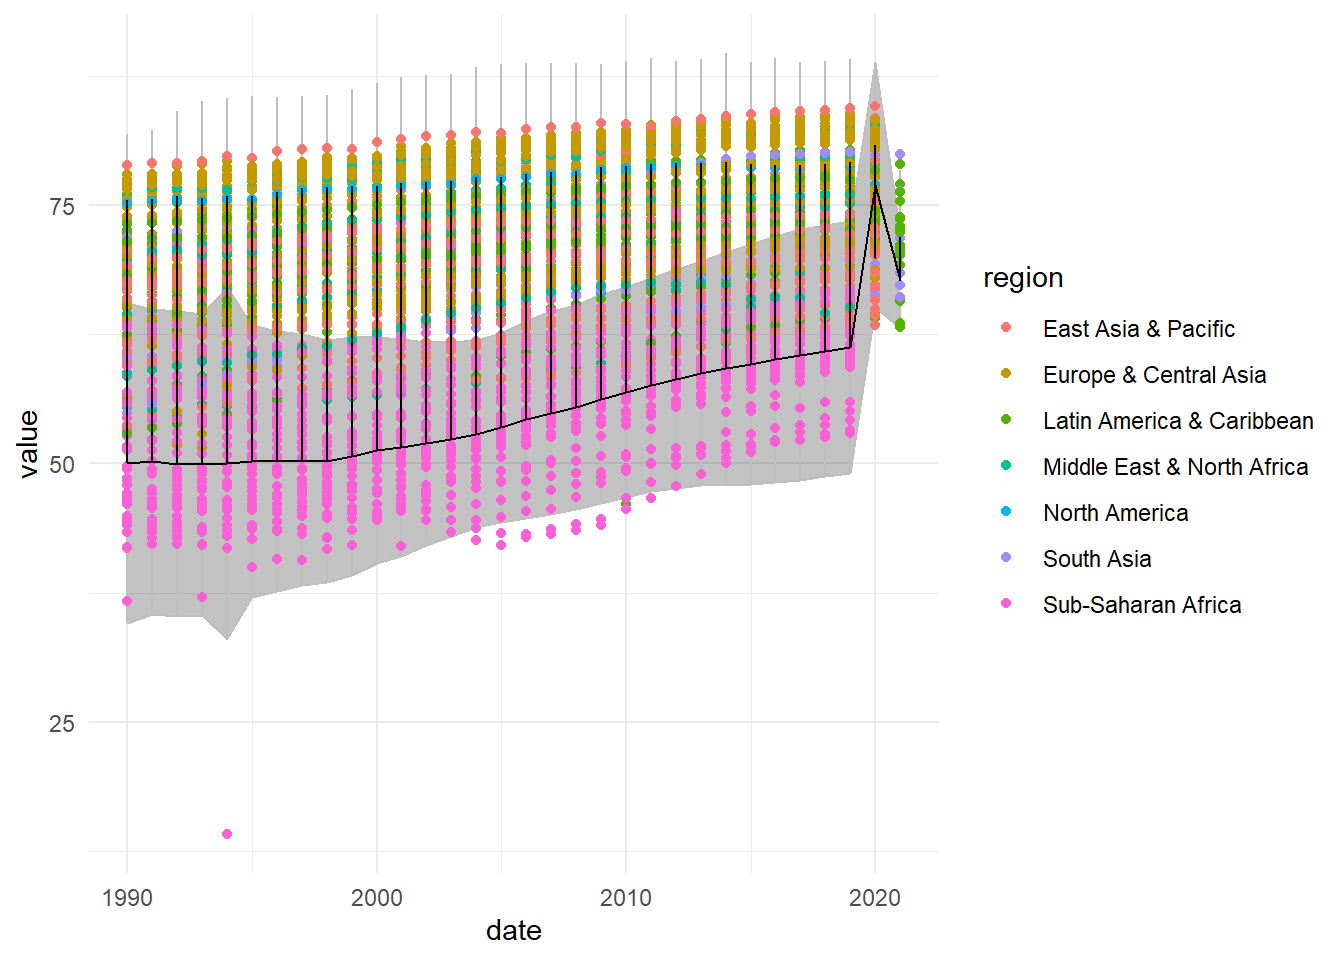
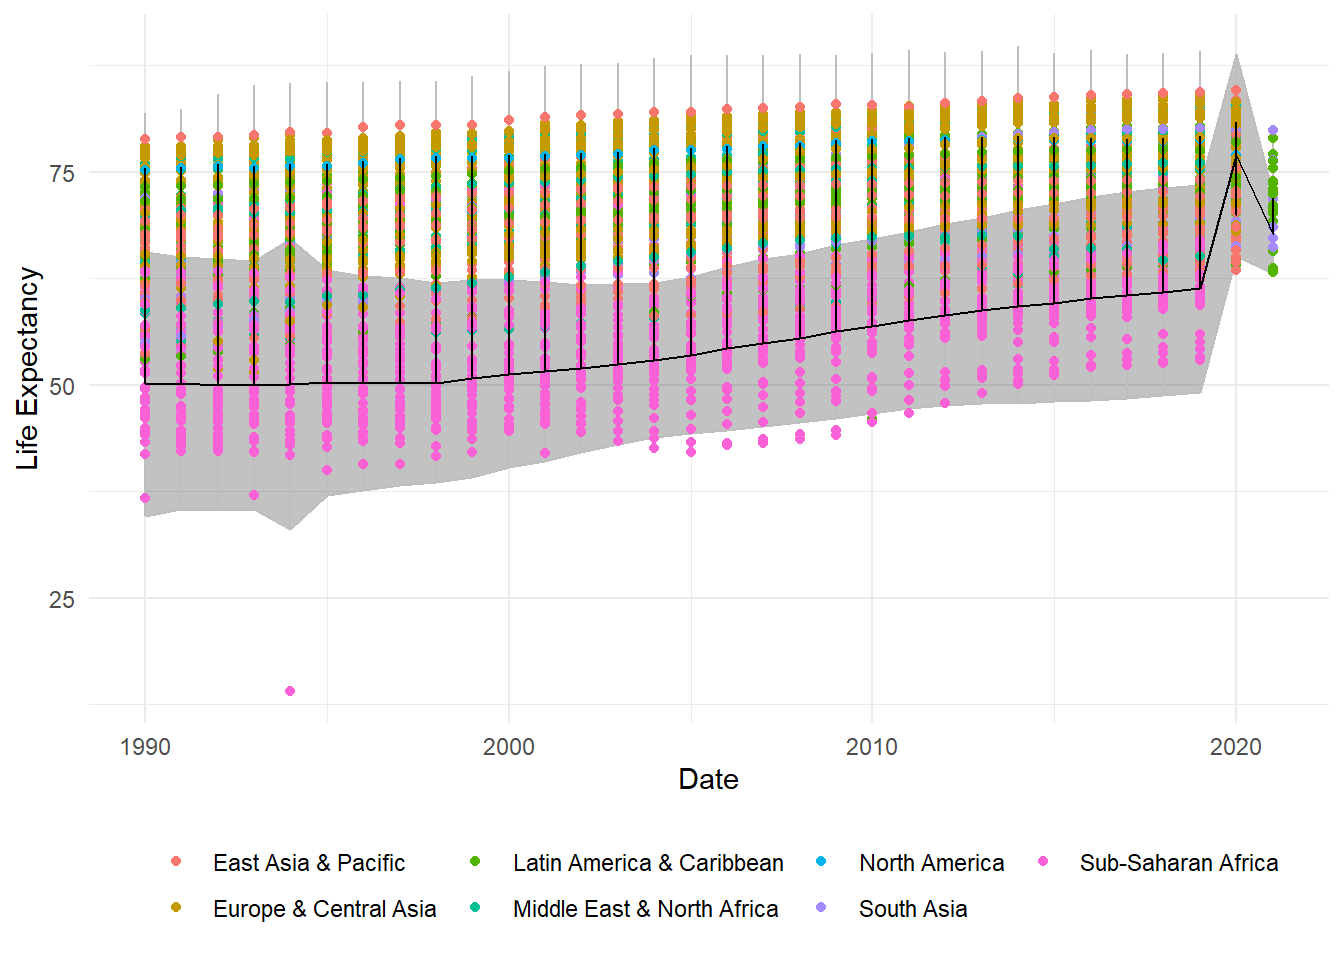
Minor Light of Day Tidying Up Changes

diff --git a/index.html b/index.html
@@ -526,7 +526,7 @@ code span.wa { color: #60a0b0; font-weight: bold; font-style: italic; } /* Warni
 <span id="cb11-11"><a href="#cb11-11" aria-hidden="true" tabindex="-1"></a>         <span class="at">upper=</span>mean<span class="fl">+2.5</span><span class="sc">*</span>(sd),</span>
 <span id="cb11-12"><a href="#cb11-12" aria-hidden="true" tabindex="-1"></a>         <span class="at">lower=</span>mean<span class="fl">-2.5</span><span class="sc">*</span>(sd),</span>
 <span id="cb11-13"><a href="#cb11-13" aria-hidden="true" tabindex="-1"></a>         <span class="at">outlier=</span><span class="fu">ifelse</span>(value<span class="sc">&lt;=</span>upper,</span>
-<span id="cb11-14"><a href="#cb11-14" aria-hidden="true" tabindex="-1"></a>                (<span class="fu">ifelse</span>(indicator<span class="sc">&lt;=</span>lower,<span class="st">"outlier"</span>,<span class="st">"inlier"</span>)),<span class="st">"outlier"</span>))</span>
+<span id="cb11-14"><a href="#cb11-14" aria-hidden="true" tabindex="-1"></a>                (<span class="fu">ifelse</span>(value<span class="sc">&lt;=</span>lower,<span class="st">"outlier"</span>,<span class="st">"inlier"</span>)),<span class="st">"outlier"</span>))</span>
 <span id="cb11-15"><a href="#cb11-15" aria-hidden="true" tabindex="-1"></a>outliers</span>
 <span id="cb11-16"><a href="#cb11-16" aria-hidden="true" tabindex="-1"></a></span>
 <span id="cb11-17"><a href="#cb11-17" aria-hidden="true" tabindex="-1"></a>}</span></code><button title="Copy to Clipboard" class="code-copy-button"><i class="bi"></i></button></pre></div>
@@ -709,7 +709,11 @@ code span.wa { color: #60a0b0; font-weight: bold; font-style: italic; } /* Warni
 <span id="cb13-9"><a href="#cb13-9" aria-hidden="true" tabindex="-1"></a>              <span class="at">colour=</span><span class="st">"grey"</span>, <span class="at">alpha=</span><span class="fl">0.3</span>)<span class="sc">+</span></span>
 <span id="cb13-10"><a href="#cb13-10" aria-hidden="true" tabindex="-1"></a>  <span class="fu">geom_point</span>(<span class="fu">aes</span>(<span class="at">x=</span>date,<span class="at">y=</span>value,<span class="at">color=</span>region))<span class="sc">+</span></span>
 <span id="cb13-11"><a href="#cb13-11" aria-hidden="true" tabindex="-1"></a>  <span class="fu">geom_line</span>(<span class="fu">aes</span>(<span class="at">x=</span>date, <span class="at">y=</span>mean))<span class="sc">+</span></span>
-<span id="cb13-12"><a href="#cb13-12" aria-hidden="true" tabindex="-1"></a>  <span class="fu">theme_minimal</span>()</span></code><button title="Copy to Clipboard" class="code-copy-button"><i class="bi"></i></button></pre></div>
+<span id="cb13-12"><a href="#cb13-12" aria-hidden="true" tabindex="-1"></a>  <span class="fu">labs</span>(<span class="at">x=</span><span class="st">"Date"</span>,</span>
+<span id="cb13-13"><a href="#cb13-13" aria-hidden="true" tabindex="-1"></a>       <span class="at">y=</span><span class="st">"Life Expectancy"</span>)<span class="sc">+</span></span>
+<span id="cb13-14"><a href="#cb13-14" aria-hidden="true" tabindex="-1"></a>  <span class="fu">theme_minimal</span>()<span class="sc">+</span></span>
+<span id="cb13-15"><a href="#cb13-15" aria-hidden="true" tabindex="-1"></a>  <span class="fu">theme</span>(<span class="at">legend.position=</span><span class="st">"bottom"</span>, </span>
+<span id="cb13-16"><a href="#cb13-16" aria-hidden="true" tabindex="-1"></a>        <span class="at">legend.title=</span><span class="fu">element_blank</span>())</span></code><button title="Copy to Clipboard" class="code-copy-button"><i class="bi"></i></button></pre></div>
 <div class="cell-output-display">
 <div class="quarto-figure quarto-figure-left">
 <figure class="figure">
@@ -1017,8 +1021,8 @@ code span.wa { color: #60a0b0; font-weight: bold; font-style: italic; } /* Warni
 <span id="cb20-4"><a href="#cb20-4" aria-hidden="true" tabindex="-1"></a>                <span class="at">y =</span> cum_income, </span>
 <span id="cb20-5"><a href="#cb20-5" aria-hidden="true" tabindex="-1"></a>                <span class="at">group =</span> year, </span>
 <span id="cb20-6"><a href="#cb20-6" aria-hidden="true" tabindex="-1"></a>                <span class="at">color =</span> <span class="fu">as.factor</span>(year))) <span class="sc">+</span></span>
-<span id="cb20-7"><a href="#cb20-7" aria-hidden="true" tabindex="-1"></a>  <span class="fu">labs</span>(<span class="at">x=</span><span class="st">"Cumulative Welfare"</span>,</span>
-<span id="cb20-8"><a href="#cb20-8" aria-hidden="true" tabindex="-1"></a>       <span class="at">y=</span><span class="st">"Cumulative Population"</span>)<span class="sc">+</span></span>
+<span id="cb20-7"><a href="#cb20-7" aria-hidden="true" tabindex="-1"></a>  <span class="fu">labs</span>(<span class="at">x=</span><span class="st">"Cumulative Population"</span>,</span>
+<span id="cb20-8"><a href="#cb20-8" aria-hidden="true" tabindex="-1"></a>       <span class="at">y=</span><span class="st">"Cumulative Welfare"</span>)<span class="sc">+</span></span>
 <span id="cb20-9"><a href="#cb20-9" aria-hidden="true" tabindex="-1"></a>  <span class="fu">theme_minimal</span>()<span class="sc">+</span></span>
 <span id="cb20-10"><a href="#cb20-10" aria-hidden="true" tabindex="-1"></a>  <span class="fu">theme</span>(<span class="at">legend.position=</span><span class="fu">c</span>(<span class="fl">0.10</span>,<span class="fl">0.60</span>), </span>
 <span id="cb20-11"><a href="#cb20-11" aria-hidden="true" tabindex="-1"></a>        <span class="at">legend.title=</span><span class="fu">element_blank</span>())</span></code><button title="Copy to Clipboard" class="code-copy-button"><i class="bi"></i></button></pre></div>
@@ -1080,84 +1084,84 @@ code span.wa { color: #60a0b0; font-weight: bold; font-style: italic; } /* Warni
  </thead>
 <tbody>
   <tr>
-   <td style="text-align:right;"> 2008 </td>
-   <td style="text-align:right;"> 1.61063 </td>
-   <td style="text-align:right;"> 2 </td>
+   <td style="text-align:right;"> 2007 </td>
+   <td style="text-align:right;"> 0.93444 </td>
+   <td style="text-align:right;"> 1 </td>
+   <td style="text-align:left;"> urban </td>
+   <td style="text-align:right;"> 0.00000 </td>
+   <td style="text-align:right;"> 0.00003 </td>
+  </tr>
+  <tr>
+   <td style="text-align:right;"> 2007 </td>
+   <td style="text-align:right;"> 0.96713 </td>
+   <td style="text-align:right;"> 1 </td>
    <td style="text-align:left;"> urban </td>
    <td style="text-align:right;"> 0.00001 </td>
    <td style="text-align:right;"> 0.00006 </td>
   </tr>
   <tr>
-   <td style="text-align:right;"> 2006 </td>
-   <td style="text-align:right;"> 0.41736 </td>
-   <td style="text-align:right;"> 3 </td>
-   <td style="text-align:left;"> urban </td>
-   <td style="text-align:right;"> 0.00001 </td>
-   <td style="text-align:right;"> 0.00009 </td>
-  </tr>
-  <tr>
    <td style="text-align:right;"> 2010 </td>
-   <td style="text-align:right;"> 2.80882 </td>
-   <td style="text-align:right;"> 4 </td>
-   <td style="text-align:left;"> urban </td>
-   <td style="text-align:right;"> 0.00004 </td>
-   <td style="text-align:right;"> 0.00012 </td>
-  </tr>
-  <tr>
-   <td style="text-align:right;"> 2007 </td>
-   <td style="text-align:right;"> 1.02653 </td>
-   <td style="text-align:right;"> 4 </td>
-   <td style="text-align:left;"> urban </td>
-   <td style="text-align:right;"> 0.00002 </td>
-   <td style="text-align:right;"> 0.00012 </td>
-  </tr>
-  <tr>
-   <td style="text-align:right;"> 2008 </td>
-   <td style="text-align:right;"> 1.61259 </td>
+   <td style="text-align:right;"> 2.80438 </td>
    <td style="text-align:right;"> 3 </td>
    <td style="text-align:left;"> urban </td>
    <td style="text-align:right;"> 0.00003 </td>
-   <td style="text-align:right;"> 0.00014 </td>
-  </tr>
-  <tr>
-   <td style="text-align:right;"> 2009 </td>
-   <td style="text-align:right;"> 2.27740 </td>
-   <td style="text-align:right;"> 6 </td>
-   <td style="text-align:left;"> rural </td>
-   <td style="text-align:right;"> 0.00006 </td>
-   <td style="text-align:right;"> 0.00017 </td>
-  </tr>
-  <tr>
-   <td style="text-align:right;"> 2007 </td>
-   <td style="text-align:right;"> 1.03780 </td>
-   <td style="text-align:right;"> 5 </td>
-   <td style="text-align:left;"> urban </td>
-   <td style="text-align:right;"> 0.00005 </td>
-   <td style="text-align:right;"> 0.00028 </td>
-  </tr>
-  <tr>
-   <td style="text-align:right;"> 2010 </td>
-   <td style="text-align:right;"> 2.85150 </td>
-   <td style="text-align:right;"> 8 </td>
-   <td style="text-align:left;"> urban </td>
-   <td style="text-align:right;"> 0.00012 </td>
-   <td style="text-align:right;"> 0.00035 </td>
-  </tr>
-  <tr>
-   <td style="text-align:right;"> 2009 </td>
-   <td style="text-align:right;"> 2.29151 </td>
-   <td style="text-align:right;"> 8 </td>
-   <td style="text-align:left;"> rural </td>
-   <td style="text-align:right;"> 0.00014 </td>
-   <td style="text-align:right;"> 0.00040 </td>
+   <td style="text-align:right;"> 0.00008 </td>
   </tr>
   <tr>
    <td style="text-align:right;"> 2008 </td>
-   <td style="text-align:right;"> 1.68623 </td>
-   <td style="text-align:right;"> 9 </td>
+   <td style="text-align:right;"> 1.63671 </td>
+   <td style="text-align:right;"> 4 </td>
    <td style="text-align:left;"> urban </td>
-   <td style="text-align:right;"> 0.00008 </td>
-   <td style="text-align:right;"> 0.00040 </td>
+   <td style="text-align:right;"> 0.00003 </td>
+   <td style="text-align:right;"> 0.00012 </td>
+  </tr>
+  <tr>
+   <td style="text-align:right;"> 2006 </td>
+   <td style="text-align:right;"> 0.44210 </td>
+   <td style="text-align:right;"> 5 </td>
+   <td style="text-align:left;"> urban </td>
+   <td style="text-align:right;"> 0.00001 </td>
+   <td style="text-align:right;"> 0.00014 </td>
+  </tr>
+  <tr>
+   <td style="text-align:right;"> 2009 </td>
+   <td style="text-align:right;"> 2.26249 </td>
+   <td style="text-align:right;"> 5 </td>
+   <td style="text-align:left;"> urban </td>
+   <td style="text-align:right;"> 0.00006 </td>
+   <td style="text-align:right;"> 0.00015 </td>
+  </tr>
+  <tr>
+   <td style="text-align:right;"> 2007 </td>
+   <td style="text-align:right;"> 1.02552 </td>
+   <td style="text-align:right;"> 4 </td>
+   <td style="text-align:left;"> urban </td>
+   <td style="text-align:right;"> 0.00003 </td>
+   <td style="text-align:right;"> 0.00018 </td>
+  </tr>
+  <tr>
+   <td style="text-align:right;"> 2006 </td>
+   <td style="text-align:right;"> 0.44692 </td>
+   <td style="text-align:right;"> 5 </td>
+   <td style="text-align:left;"> urban </td>
+   <td style="text-align:right;"> 0.00003 </td>
+   <td style="text-align:right;"> 0.00029 </td>
+  </tr>
+  <tr>
+   <td style="text-align:right;"> 2009 </td>
+   <td style="text-align:right;"> 2.26404 </td>
+   <td style="text-align:right;"> 5 </td>
+   <td style="text-align:left;"> urban </td>
+   <td style="text-align:right;"> 0.00012 </td>
+   <td style="text-align:right;"> 0.00030 </td>
+  </tr>
+  <tr>
+   <td style="text-align:right;"> 2007 </td>
+   <td style="text-align:right;"> 1.04178 </td>
+   <td style="text-align:right;"> 5 </td>
+   <td style="text-align:left;"> rural </td>
+   <td style="text-align:right;"> 0.00005 </td>
+   <td style="text-align:right;"> 0.00033 </td>
   </tr>
 </tbody>
 </table>
@@ -1174,9 +1178,11 @@ code span.wa { color: #60a0b0; font-weight: bold; font-style: italic; } /* Warni
 <span id="cb23-4"><a href="#cb23-4" aria-hidden="true" tabindex="-1"></a>                <span class="at">y =</span> cum_income, </span>
 <span id="cb23-5"><a href="#cb23-5" aria-hidden="true" tabindex="-1"></a>                <span class="at">group =</span> year, </span>
 <span id="cb23-6"><a href="#cb23-6" aria-hidden="true" tabindex="-1"></a>                <span class="at">color =</span> <span class="fu">as.factor</span>(year))) <span class="sc">+</span></span>
-<span id="cb23-7"><a href="#cb23-7" aria-hidden="true" tabindex="-1"></a>  <span class="fu">theme_minimal</span>()<span class="sc">+</span></span>
-<span id="cb23-8"><a href="#cb23-8" aria-hidden="true" tabindex="-1"></a>  <span class="fu">theme</span>(<span class="at">legend.position=</span><span class="fu">c</span>(<span class="fl">0.10</span>,<span class="fl">0.60</span>), </span>
-<span id="cb23-9"><a href="#cb23-9" aria-hidden="true" tabindex="-1"></a>        <span class="at">legend.title=</span><span class="fu">element_blank</span>())</span></code><button title="Copy to Clipboard" class="code-copy-button"><i class="bi"></i></button></pre></div>
+<span id="cb23-7"><a href="#cb23-7" aria-hidden="true" tabindex="-1"></a>  <span class="fu">labs</span>(<span class="at">x=</span><span class="st">"Cumulative Population"</span>,</span>
+<span id="cb23-8"><a href="#cb23-8" aria-hidden="true" tabindex="-1"></a>       <span class="at">y=</span><span class="st">"Cumulative Welfare"</span>)<span class="sc">+</span></span>
+<span id="cb23-9"><a href="#cb23-9" aria-hidden="true" tabindex="-1"></a>  <span class="fu">theme_minimal</span>()<span class="sc">+</span></span>
+<span id="cb23-10"><a href="#cb23-10" aria-hidden="true" tabindex="-1"></a>  <span class="fu">theme</span>(<span class="at">legend.position=</span><span class="fu">c</span>(<span class="fl">0.10</span>,<span class="fl">0.60</span>), </span>
+<span id="cb23-11"><a href="#cb23-11" aria-hidden="true" tabindex="-1"></a>        <span class="at">legend.title=</span><span class="fu">element_blank</span>())</span></code><button title="Copy to Clipboard" class="code-copy-button"><i class="bi"></i></button></pre></div>
 <div class="cell-output-display">
 <div class="quarto-figure quarto-figure-left">
 <figure class="figure">
@@ -1270,10 +1276,13 @@ code span.wa { color: #60a0b0; font-weight: bold; font-style: italic; } /* Warni
 <h3 class="anchored" data-anchor-id="graphing-results-3">Graphing Results</h3>
 <div class="cell" data-layout-align="left">
 <div class="sourceCode cell-code" id="cb26"><pre class="sourceCode r code-with-copy"><code class="sourceCode r"><span id="cb26-1"><a href="#cb26-1" aria-hidden="true" tabindex="-1"></a><span class="fu">gini</span>() <span class="sc">%&gt;%</span> </span>
-<span id="cb26-2"><a href="#cb26-2" aria-hidden="true" tabindex="-1"></a>  <span class="fu">ggplot</span>(<span class="fu">aes</span>(<span class="at">x=</span>year,<span class="at">y=</span>gini))<span class="sc">+</span></span>
-<span id="cb26-3"><a href="#cb26-3" aria-hidden="true" tabindex="-1"></a>  <span class="fu">geom_line</span>()<span class="sc">+</span></span>
-<span id="cb26-4"><a href="#cb26-4" aria-hidden="true" tabindex="-1"></a>  <span class="fu">geom_point</span>()<span class="sc">+</span></span>
-<span id="cb26-5"><a href="#cb26-5" aria-hidden="true" tabindex="-1"></a>  <span class="fu">theme_minimal</span>()</span></code><button title="Copy to Clipboard" class="code-copy-button"><i class="bi"></i></button></pre></div>
+<span id="cb26-2"><a href="#cb26-2" aria-hidden="true" tabindex="-1"></a>  <span class="fu">mutate</span>(<span class="at">year =</span> <span class="fu">as.Date</span>(<span class="fu">paste0</span>(year, <span class="st">"-01-01"</span>))) <span class="sc">%&gt;%</span> </span>
+<span id="cb26-3"><a href="#cb26-3" aria-hidden="true" tabindex="-1"></a>  <span class="fu">ggplot</span>(<span class="fu">aes</span>(<span class="at">x=</span>year,<span class="at">y=</span>gini))<span class="sc">+</span></span>
+<span id="cb26-4"><a href="#cb26-4" aria-hidden="true" tabindex="-1"></a>  <span class="fu">geom_line</span>()<span class="sc">+</span></span>
+<span id="cb26-5"><a href="#cb26-5" aria-hidden="true" tabindex="-1"></a>  <span class="fu">geom_point</span>()<span class="sc">+</span></span>
+<span id="cb26-6"><a href="#cb26-6" aria-hidden="true" tabindex="-1"></a>  <span class="fu">labs</span>(<span class="at">x=</span><span class="st">"Year"</span>,</span>
+<span id="cb26-7"><a href="#cb26-7" aria-hidden="true" tabindex="-1"></a>       <span class="at">y=</span><span class="st">"Gini Co-efficient"</span>)<span class="sc">+</span></span>
+<span id="cb26-8"><a href="#cb26-8" aria-hidden="true" tabindex="-1"></a>  <span class="fu">theme_minimal</span>()</span></code><button title="Copy to Clipboard" class="code-copy-button"><i class="bi"></i></button></pre></div>
 <div class="cell-output-display">
 <div class="quarto-figure quarto-figure-left">
 <figure class="figure">
